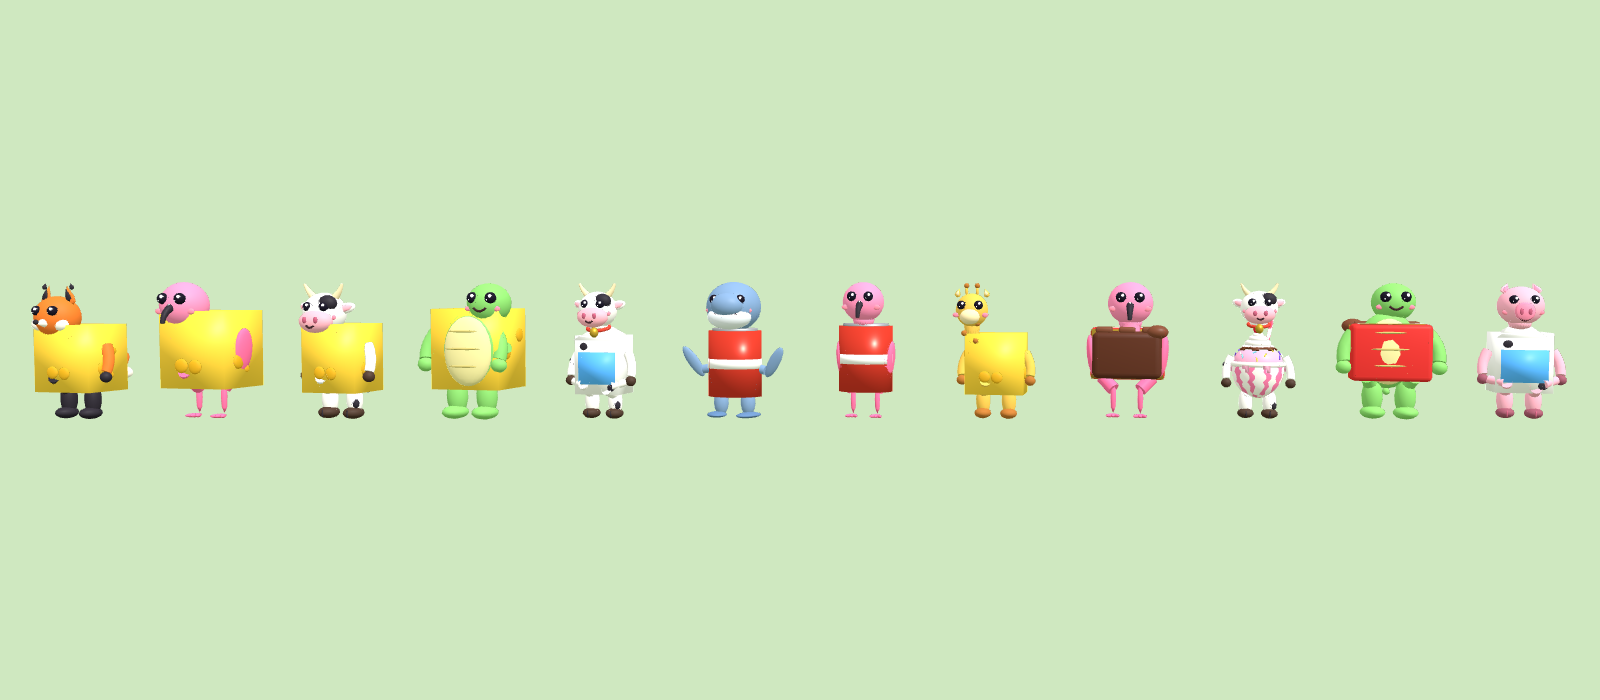
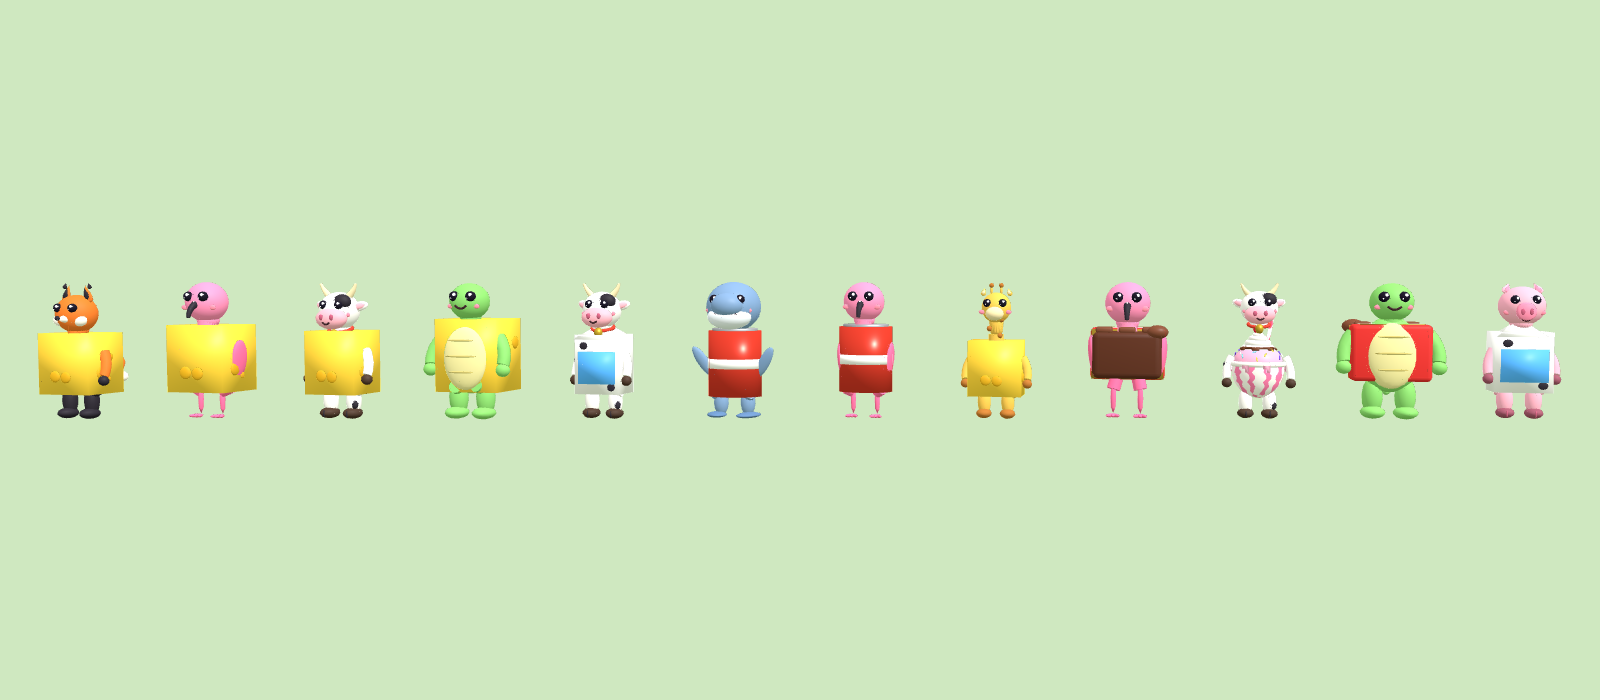
Matdyr-prototype: festDeler bruker punkter på hele kroppens overflate, hodet står midt oppå osten (QA 8c652ac)
Claude-Session: https://claude.ai/code/session_01MHiEAx2ViyeqhQWH7Jeoaa

diff --git a/prototype/matdyr-fase2/visning.js b/prototype/matdyr-fase2/visning.js
@@ -87,9 +87,14 @@
   // Even 17.11.2026: «Sørg for at armer og bein er festet til kroppen». Matkroppene har ulik form (kjeks, kjegle, ring),
   // så her måles den faktiske kroppen: armene flyttes inn til kanten, og beina og halsen får et stykke som når helt inn i kroppen.
   function festDeler(sc, kropp) {
-    const pkt = [], v = new T.Vector3();
-    kropp.traverse(o => { if (!o.isMesh) return; const p = o.geometry.attributes.position, steg = Math.max(1, Math.floor(p.count / 1500));
-      for (let i = 0; i < p.count; i += steg) pkt.push(v.fromBufferAttribute(p, i).applyMatrix4(o.matrixWorld).clone()); });
+    // Punkter jevnt fordelt på kroppens overflate (QA 8c652ac: osteklossen har bare hjørnepunkter, så toppflaten «fantes ikke»)
+    const pkt = [], v = new T.Vector3(), tri = []; let sum = 0;
+    kropp.traverse(o => { if (!o.isMesh) return; const g = o.geometry, p = g.attributes.position, ix = g.index, n = ix ? ix.count : p.count;
+      for (let k = 0; k + 2 < n; k += 3) { const t = [0, 1, 2].map(j => v.fromBufferAttribute(p, ix ? ix.getX(k + j) : k + j).applyMatrix4(o.matrixWorld).clone());
+        sum += t[1].clone().sub(t[0]).cross(t[2].clone().sub(t[0])).length() / 2; tri.push([t, sum]); } });
+    let fro = 11; const rnd = () => (fro = (fro * 16807) % 2147483647) / 2147483647;
+    for (let k = 0; k < 2500 && tri.length; k++) { const r0 = rnd() * sum; let lo = 0, hi = tri.length - 1; while (lo < hi) { const mid = (lo + hi) >> 1; if (tri[mid][1] < r0) lo = mid + 1; else hi = mid; }
+      const [t] = tri[lo]; let u = rnd(), w = rnd(); if (u + w > 1) { u = 1 - u; w = 1 - w; } pkt.push(t[0].clone().add(t[1].clone().sub(t[0]).multiplyScalar(u)).add(t[2].clone().sub(t[0]).multiplyScalar(w))); }
     if (!pkt.length) return;
     const node = n => { let f = null; sc.traverse(o => { if (!f && o.name === n) f = o; }); return f; };
     const matAv = o => { let m = null; o.traverse(c => { if (!m && c.isMesh) m = c.material; }); return m; };
@@ -127,7 +132,7 @@
       else stykke(nd, r.a, r.b.clone().lerp(new T.Vector3(0, r.b.y, r.b.z), 0.15), 0.055);
     }
     // Halsen: hodet skal sitte på toppen av kroppen
-    const hd = node('hode');
+    const hd = node('hode'); if (hd) hd.userData.p0 = hd.position.clone();
     if (hd) {   // stikker maten opp over halsen (isen er høy), løftes hodet så det sitter oppå
       let topp = -1e9; for (const q of pkt) if (Math.abs(q.x) < 0.14 && Math.abs(q.z - hd.position.z) < 0.18) topp = Math.max(topp, q.y);
       if (topp > hd.position.y + 0.04) { hd.position.y = topp - 0.04; sc.updateMatrixWorld(true); }

diff --git a/prototype/matdyr-fase2/README.md b/prototype/matdyr-fase2/README.md
@@ -414,3 +414,8 @@ Uten flagget er fordelingen, lagringen og spillet som før. B3 (uendrede sjelden
 - Finnes det ingen kropp rett under hodet, flyttes hodet inntil kroppen, slik haifinnen gjør.
 - Testen feiler nå hvis et halsstykke er lengre enn 8 cm og står mer enn 35° fra loddrett.
 - Kontaktark: `tobein-hals.png`.
+
+## Etter QA 8c652ac (19.11.2026)
+- Punktene på matkroppen trekkes nå jevnt over overflaten, ikke bare fra hjørnene. På osteklossen fantes toppflaten derfor ikke, og hodet ble flyttet ut på et hjørne. Nå står hodet midt oppå.
+- Testen feiler hvis hodet er flyttet mer enn 8 cm sidelengs fra plassen i dyremodellen.
+- `tobein-hals.png` er oppdatert.
